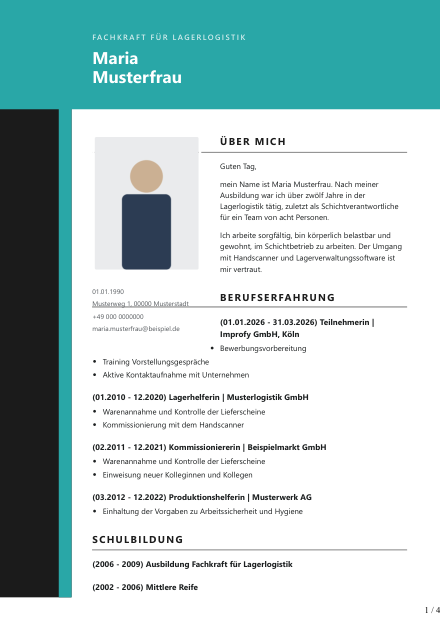
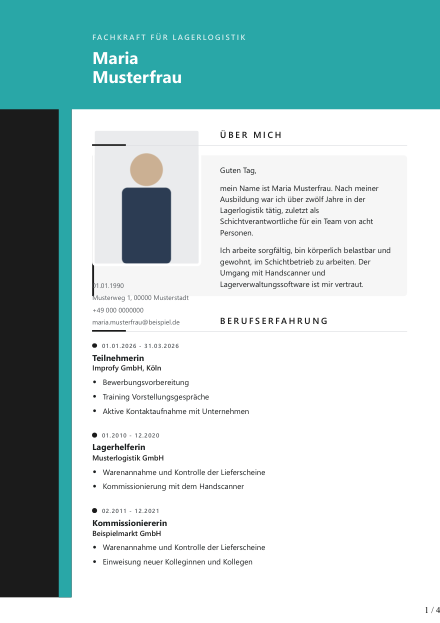
Designdurchgang am Lebenslauf: Satzbild, Weissraum, zwei Umbruchfehler
**Der Zipfel auf der Schrift.** Bei der Kopfform `band` lag die Spitze des Farbbands ab
Seite 2 auf dem ersten Wort ("SCHULBILDUNG" ohne S). Die Ursache war die Stelle, an der
der Abstand sass: eine Polsterung am Inhaltsblock wirkt nur einmal, an seinem Anfang -
also auf Seite 1. Der Tabellenkopf dagegen wird auf jeder Seite neu gesetzt, seine
Polsterung damit auch. Dorthin gehoert der Abstand.

**Die fast leere Schlussseite.** 13 von 23 Vorlagen erzeugten ein drittes Blatt, auf dem
nur der wiederholte Kopf und die Seitenzahl standen. Der Abstand hinter dem letzten
Kapitel hat nichts mehr zu trennen, schob den Satzspiegel aber ueber die Kante.

**Satzbild.** Die Vorlagen sahen verschieden aus, lasen sich aber alle gleich flach: eine
fette Zeile "(Zeitraum) Titel | Firma", darunter Stichpunkte, siebenmal untereinander.
Jetzt:
- Der Zeitraum steht ueber dem Titel, klein und ruhig. Er ist die Orientierung, nicht
  die Aussage.
- Titel und Firma sind verschieden gewichtet statt durch einen Strich getrennt. Der
  Strich war eine Kruecke der Tabellenvorlage.
- Eine farbige Marke am Beginn jedes Eintrags, gesetzt **am Text** statt am Kastenrand:
  am Kasten sprang sie, weil der erste Eintrag neben der Fotospalte steht und die
  folgenden am Rand - das haette ausgesehen wie ein Fehler, nicht wie Absicht.
- Ueberschriften: Haarlinie ueber die Breite, darauf ein kurzes kraeftiges Stueck in der
  Hausfarbe.
[…]

Changed region(s): [[0.2068, 0.2135, 0.9159, 0.9454], [0.2659, 0.244, 0.3841, 0.3355], [0.2364, 0.2135, 0.2659, 0.244]]

diff --git a/templates/cv_designs/cv_skin.html b/templates/cv_designs/cv_skin.html
@@ -26,6 +26,13 @@ table.seite { width: 100%; border-collapse: collapse; }
 table.seite > thead { display: table-header-group; }
 table.seite > tbody { display: table-row-group; }
 table.seite td { padding: 0; vertical-align: top; }
+/* Der Abstand unter dem Kopf gehoert **hierhin**, nicht an den Inhalt. Eine Polsterung
+   am Inhaltsblock wirkt nur einmal - an seinem Anfang, also auf Seite 1. Ab Seite 2
+   begann der Text direkt unter dem Farbband, und bei der Kopfform `band` lag die
+   Zipfelspitze auf dem ersten Wort ("SCHULBILDUNG" ohne S, gesehen am 18.09.2026).
+   Der Tabellenkopf dagegen wird von Chrome auf jeder Seite neu gesetzt - seine
+   Polsterung damit auch. Bei `band` muss sie groesser sein als der Zipfel hoch ist. */
+table.seite > thead td { padding-bottom: {{ '13mm' if skin.kopfform == 'band' else '9mm' }}; }
 
 /* ------------------------------------------------------------------ Kopfformen */
 .kopf { position: relative; }
@@ -37,9 +44,13 @@ table.seite td { padding: 0; vertical-align: top; }
 .kopf { background: var(--farbe); padding: 16mm 16mm 12mm; }
 .kopf .name { color: #fff; font-size: 25pt; }
 .kopf .rolle { color: #ffffffd0; margin-bottom: 2.5mm; }
-.zipfel { position: absolute; left: 18mm; bottom: -10mm; width: 0; height: 0;
-          border-left: 10mm solid var(--farbe); border-bottom: 10mm solid transparent; }
-.blatt { padding: 14mm 16mm 14mm; }
+.zipfel { position: absolute; left: 18mm; bottom: -9mm; width: 0; height: 0;
+          border-left: 9mm solid var(--farbe); border-bottom: 9mm solid transparent; }
+/* Der Zipfel ragt unter den Kopf hinaus. Auf Seite 1 war darunter Platz, auf Seite 2
+   begann der Text sofort - dort lag die Spitze auf dem Wort „SCHULBILDUNG" und
+   verdeckte den ersten Buchstaben. Der Abstand muss deshalb groesser sein als der
+   Zipfel hoch ist, und zwar auf **jeder** Seite. (Gesehen am 18.09.2026.) */
+.blatt { padding: 0 16mm 4mm; }
 
 {% elif skin.kopfform == 'links' %}
 /* Die farbige Randspalte läuft über die **ganze** Seite, nicht nur durch den Kopf.
@@ -54,7 +65,7 @@ table.seite td { padding: 0; vertical-align: top; }
 .kopf { background: var(--farbe2); padding: 15mm 16mm 11mm 44mm; }
 .kopf .name { color: #fff; font-size: 23pt; }
 .kopf .rolle { color: #ffffffcc; margin-bottom: 2.5mm; }
-.blatt { padding: 12mm 16mm 14mm 44mm; }
+.blatt { padding: 0 16mm 4mm 44mm; }
 
 {% elif skin.kopfform == 'ecke' %}
 .kopf { padding: 15mm 16mm 10mm; overflow: hidden; }
@@ -65,7 +76,7 @@ table.seite td { padding: 0; vertical-align: top; }
 .kopf .inhalt { position: relative; z-index: 2; padding-left: 26mm; }
 .kopf .name { color: var(--text); font-size: 25pt; }
 .kopf .rolle { color: var(--farbe); margin-bottom: 2.5mm; }
-.blatt { padding: 8mm 16mm 14mm; }
+.blatt { padding: 0 16mm 4mm; }
 
 {% elif skin.kopfform == 'flaeche' %}
 body { background: var(--farbe2); }
@@ -75,7 +86,7 @@ body { background: var(--farbe2); }
 .kopf .name b { font-weight: 700; }
 .kopf .strich { width: 26mm; height: .5mm; background: var(--farbe); margin: 4mm auto 3mm; }
 .kopf .rolle { color: var(--farbe); }
-.blatt { padding: 10mm 16mm 14mm; }
+.blatt { padding: 0 16mm 4mm; }
 
 {% elif skin.kopfform == 'rahmen' %}
 .kopf { padding: 14mm 16mm 9mm; text-align: center; }
@@ -83,7 +94,7 @@ body { background: var(--farbe2); }
                height: .5mm; background: var(--farbe); }
 .kopf .name { color: var(--text); font-size: 24pt; letter-spacing: .04em; }
 .kopf .rolle { color: var(--farbe); margin-top: 3mm; }
-.blatt { padding: 10mm 16mm 14mm; }
+.blatt { padding: 0 16mm 4mm; }
 .blatt::before { content: ""; position: fixed; left: 8mm; top: 8mm; right: 8mm; bottom: 8mm;
                  border: .4mm solid var(--farbe2); pointer-events: none; }
 
@@ -94,7 +105,7 @@ body { background: var(--farbe2); }
 .kopf .rolle { color: var(--farbe); margin-top: 3mm; }
 .kopf .marke { display: inline-block; height: 1.4mm; width: 18mm; background: var(--farbe);
                margin-bottom: 4mm; }
-.blatt { padding: 6mm 16mm 14mm; }
+.blatt { padding: 0 16mm 4mm; }
 {% endif %}
 
 /* ---------------------------------------------------- Foto, Kontakt, Inhalt */
@@ -107,19 +118,106 @@ body { background: var(--farbe2); }
            {% if skin.kopfform in ('flaeche', 'rahmen') %}text-align: center;{% endif %} }
 .kontakt div { overflow-wrap: anywhere; }
 
-h2 { color: var(--farbe); font-size: 13.5pt; font-weight: 700; letter-spacing: .13em;
-     text-transform: uppercase; }
-{% if skin.kopfform in ('band', 'links') %}
-h2 { padding-bottom: 1.5mm; border-bottom: .5mm solid var(--farbe); }
-{% elif skin.kopfform == 'flaeche' %}
-h2::after { content: ""; display: block; width: 14mm; height: .4mm;
-            background: var(--farbe); margin-top: 2mm; }
-{% endif %}
-h3 { color: var(--farbe); font-size: 11pt; font-weight: 700; letter-spacing: .1em;
-     text-transform: uppercase; margin-top: 6mm; }
-.eintrag .titel { font-weight: 700; font-size: 11pt; }
+/* ------------------------------------------------------------------ Satzbild
+
+   Die Vorlagen sahen zwar verschieden aus, lasen sich aber alle gleich flach: eine
+   fette Zeile "(Zeitraum) Titel | Firma", darunter Stichpunkte, und das siebenmal
+   untereinander. Ein Recruiter ueberfliegt so etwas nicht, er arbeitet es ab.
+
+   Drei Aenderungen, die daraus ein gesetztes Blatt machen:
+
+     Der Zeitraum steht **ueber** dem Titel, klein und ruhig. Er ist die Orientierung,
+     nicht die Aussage - also darf er nicht so laut sein wie die Stelle.
+
+     Titel und Firma sind verschieden gewichtet statt durch einen Strich getrennt.
+     Der Strich war eine Krücke der Tabellenvorlage.
+
+     Eine feine Linie mit einem farbigen Punkt fuehrt an den Eintraegen entlang. Das
+     gibt dem Auge eine Kante und macht aus einer Liste einen Verlauf. */
+
+h2 { color: var(--farbe); font-size: 12pt; font-weight: 600; letter-spacing: .2em;
+     text-transform: uppercase; position: relative; padding-bottom: 2.4mm; }
+/* Haarlinie ueber die Breite, darauf ein kurzes kraeftiges Stueck in der Hausfarbe -
+   der Unterschied zwischen "unterstrichen" und "gesetzt". */
+h2::before { content: ""; position: absolute; left: 0; right: 0; bottom: 0;
+             height: .25mm; background: var(--linie); }
+h2::after  { content: ""; position: absolute; left: 0; bottom: 0;
+             width: 16mm; height: .8mm; background: var(--farbe); }
+h3 { color: var(--text); font-size: 9.5pt; font-weight: 700; letter-spacing: .16em;
+     text-transform: uppercase; margin-top: 7mm; opacity: .78; }
+
+/* `flow-root` ist hier der entscheidende Punkt: Ohne ihn laeuft der Kasten eines
+   Eintrags **unter** der Fotospalte durch und nur der Text weicht aus. Die Linie und
+   der Punkt sitzen am Kastenrand - und landeten damit mitten auf der Telefonnummer.
+   Mit `flow-root` stellt sich jeder Eintrag neben die Fotospalte, solange sie reicht,
+   und nimmt darunter die volle Breite. Kein Ueberlappen, kein verschenkter Rand. */
+/* `flow-root` ist hier der entscheidende Punkt: Ohne ihn laeuft der Kasten eines
+   Eintrags **unter** der Fotospalte durch und nur der Text weicht aus - Linie und Punkt
+   sassen dann mitten auf der Telefonnummer. Mit `flow-root` stellt sich jeder Eintrag
+   neben die Fotospalte, solange sie reicht, und nimmt darunter die volle Breite. */
+.eintrag { display: flow-root; }
+/* Die Marke sitzt **am Text**, nicht am Kastenrand. Am Kasten sprang sie: der erste
+   Eintrag steht neben dem Foto, die folgenden am linken Rand - eine durchgehende Linie
+   haette dort einen Absatz gemacht und ausgesehen wie ein Fehler, nicht wie Absicht. */
+.eintrag .wann { font-size: 8pt; font-weight: 600; letter-spacing: .1em;
+                 color: var(--grau); text-transform: uppercase;
+                 font-variant-numeric: tabular-nums; margin-bottom: 1mm;
+                 display: flex; align-items: center; gap: 2.4mm; }
+.eintrag .wann::before { content: ""; flex: none; width: 2.2mm; height: 2.2mm;
+                         border-radius: 50%; background: var(--farbe); }
+/* Ohne Zeitraum fehlt die Marke - dann traegt sie der Titel, damit kein Eintrag
+   ohne Anfang dasteht. */
+.eintrag .titel:first-child { border-left: .8mm solid var(--farbe); padding-left: 3mm; }
+.eintrag .titel { font-weight: 700; font-size: 11.5pt; line-height: 1.25; }
+.eintrag .firma { display: block; font-size: 10pt; font-weight: 600;
+                  color: var(--farbe); margin-top: .4mm; }
+.eintrag .dazu  { font-size: 9.5pt; color: var(--grau); margin-top: .4mm; }
+
+/* „Über mich" ist das Erste, was gelesen wird - es bekommt eine eigene Flaeche statt
+   im Fliesstext unterzugehen. Die Toenung liegt auf dem Untergrund, damit sie auch auf
+   den eingefaerbten Vorlagen passt. */
+.ueber { background: rgba(0, 0, 0, .035); border-left: 1.2mm solid var(--farbe);
+         padding: 4.5mm 6mm 3mm; border-radius: 0 1.5mm 1.5mm 0; }
+.ueber p:last-child { margin-bottom: 0; }
+
 .paar .was { font-size: 10pt; }
-.sprachzeile .sp { text-transform: uppercase; color: var(--farbe); }
+/* Bewertungen stehen rechtsbuendig untereinander - eine ruhige Kante statt einer
+   Treppe, die der Laenge der Woerter folgt. */
+.paare { display: grid; grid-template-columns: 1fr auto; gap: 1.6mm 5mm;
+         align-items: center; }
+.paar.zeile { display: contents; }
+.sprachzeile { display: flex; align-items: baseline; gap: 3mm; margin-bottom: 1.4mm; }
+.sprachzeile .sp { text-transform: uppercase; color: var(--farbe); font-weight: 600;
+                   letter-spacing: .08em; font-size: 9.5pt; }
+/* Feine Linie zwischen Sprache und Niveau: fuehrt das Auge ueber die Luecke, ohne eine
+   weitere Farbe einzufuehren. **Nur**, wenn rechts auch etwas steht - sonst zeigt sie
+   ins Leere und sieht aus wie ein Fehler (am 18.09.2026 genau so im PDF gesehen). */
+.sprachzeile.mit-grad::before { content: ""; flex: 1; order: 1; height: .25mm;
+                                background: var(--linie); }
+.sprachzeile .grad { order: 2; }
+/* `display: contents` nimmt der Zeile ihren Kasten - der Umbruchschutz aus dem Rahmen
+   greift dann nicht mehr. Deshalb hier an den Kindern. */
+.paare > * { break-inside: avoid; }
+
+/* Mehr Luft zwischen den Kapiteln. Der enge Satz war der zweite Grund, warum das Blatt
+   gedraengt wirkte: sieben Stationen und vier Kapitel ohne Atempause dazwischen. */
+.zweispaltig { display: grid; grid-template-columns: 1fr 1fr; gap: 0 10mm;
+               break-inside: avoid; }
+.zweispaltig .spalte > h3:first-child { margin-top: 0; }
+.spalte { break-inside: avoid; }
+
+.kapitel { margin-bottom: 8.5mm; }
+/* Der Abstand **hinter** dem letzten Kapitel hat nichts mehr zu trennen - er schob den
+   Satzspiegel aber ueber die Seitenkante und erzwang eine dritte Seite, auf der nur
+   noch der wiederholte Kopf und die Seitenzahl standen. Eine leere Seite in einem
+   Lebenslauf sieht nach Unfall aus. (18.09.2026) */
+.kapitel:last-child { margin-bottom: 0; }
+.blatt > .reihe > .rechts > .kapitel:last-child { margin-bottom: 0; }
+.kapitel > h2 { margin-bottom: 4.5mm; }
+h3 + .paare, h3 + .eintrag { margin-top: 3mm; }
+.eintrag { margin-bottom: 5.5mm; }
+ul { margin-top: 2mm; }
+li { margin-bottom: 1.4mm; }
 
 /* ------------------------------------------------------------- Bewertungen */
 .sterne { color: var(--farbe); font-size: 12pt; }
@@ -184,7 +282,9 @@ h3 { color: var(--farbe); font-size: 11pt; font-weight: 700; letter-spacing: .1e
     {% if d.ueber_mich %}
     <section class="kapitel">
       <h2>Über mich</h2>
+      <div class="ueber">
       {% for absatz in d.ueber_mich.split('\n') %}{% if absatz.strip() %}<p>{{ absatz.strip() }}</p>{% endif %}{% endfor %}
+      </div>
     </section>
     {% endif %}
 
@@ -193,9 +293,12 @@ h3 { color: var(--farbe); font-size: 11pt; font-weight: 700; letter-spacing: .1e
       <h2>Berufserfahrung</h2>
       {% for b in beruf %}
       <div class="eintrag">
-        {# Der Trennstrich gehoert zwischen Titel und Firma. Steht nur eines von beiden da,
-           haengt er sonst im Nichts: "(seit 03.2026) | arbeitsuchend". #}
-        <div class="titel">({{ b.zeitraum }}){% if b.jobtitel %} {{ b.jobtitel }}{% endif %}{% if b.firma %}{{ " |" if b.jobtitel }} {{ b.firma }}{% endif %}</div>
+        {# Zeitraum oben und leise, darunter die Stelle. Steht nur eines von Titel und
+           Firma da, rueckt es schlicht in die Titelzeile - kein leeres Feld, kein
+           Trennstrich, der im Nichts haengt. #}
+        {% if b.zeitraum %}<div class="wann">{{ b.zeitraum }}</div>{% endif %}
+        <div class="titel">{{ b.jobtitel or b.firma }}
+          {%- if b.jobtitel and b.firma %}<span class="firma">{{ b.firma }}</span>{% endif %}</div>
         {% if b.taetigkeiten %}<ul>{% for t in b.taetigkeiten %}<li>{{ t }}</li>{% endfor %}</ul>{% endif %}
       </div>
       {% endfor %}
@@ -207,8 +310,10 @@ h3 { color: var(--farbe); font-size: 11pt; font-weight: 700; letter-spacing: .1e
       <h2>Schulbildung</h2>
       {% for b in d.bildung %}
       <div class="eintrag">
-        <div class="titel">({{ b.zeitraum }}) {{ b.abschluss }}</div>
-        {% if b.institution %}<div>{{ b.institution }}{% if b.note %} · Note {{ b.note }}{% endif %}</div>{% endif %}
+        {% if b.zeitraum %}<div class="wann">{{ b.zeitraum }}</div>{% endif %}
+        <div class="titel">{{ b.abschluss }}
+          {%- if b.institution %}<span class="firma">{{ b.institution }}</span>{% endif %}</div>
+        {% if b.note %}<div class="dazu">Note {{ b.note }}</div>{% endif %}
       </div>
       {% endfor %}
     </section>
@@ -219,23 +324,34 @@ h3 { color: var(--farbe); font-size: 11pt; font-weight: 700; letter-spacing: .1e
     <section class="kapitel">
       <h2>Persönliche Qualifikation</h2>
 
-      {% if d.soft_skills %}
-      <h3>Soft Skills</h3>
-      <div class="paare">
-        {% for s in d.soft_skills %}
-        <div class="paar zeile"><div class="was">{{ s.eigenschaft }}</div>{{ bewertung(s.sterne, 5) }}</div>
-        {% endfor %}
-      </div>
-      {% endif %}
+      {# Beides sind kurze Listen mit einer Bewertung rechts. Untereinander fuellten sie
+         eine halbe Seite und schoben die Sprachen auf ein fast leeres Blatt. Nebeneinander
+         passen sie in denselben Raum - und der Block wirkt gesetzt statt gestapelt.
+         Ist nur eine der beiden Listen da, bleibt sie ueber die volle Breite. #}
+      {% set zwei = d.soft_skills and d.edv_kenntnisse %}
+      <div class="{{ 'zweispaltig' if zwei else '' }}">
+        {% if d.soft_skills %}
+        <div class="spalte">
+          <h3>Soft Skills</h3>
+          <div class="paare">
+            {% for s in d.soft_skills %}
+            <div class="paar zeile"><div class="was">{{ s.eigenschaft }}</div>{{ bewertung(s.sterne, 5) }}</div>
+            {% endfor %}
+          </div>
+        </div>
+        {% endif %}
 
-      {% if d.edv_kenntnisse %}
-      <h3>EDV-Kenntnisse</h3>
-      <div class="paare">
-        {% for e in d.edv_kenntnisse %}
-        <div class="paar zeile"><div class="was">{{ e.programm }}</div>{{ bewertung(e.sterne, 4) }}</div>
-        {% endfor %}
+        {% if d.edv_kenntnisse %}
+        <div class="spalte">
+          <h3>EDV-Kenntnisse</h3>
+          <div class="paare">
+            {% for e in d.edv_kenntnisse %}
+            <div class="paar zeile"><div class="was">{{ e.programm }}</div>{{ bewertung(e.sterne, 4) }}</div>
+            {% endfor %}
+          </div>
+        </div>
+        {% endif %}
       </div>
-      {% endif %}
 
       {% if d.zusatzqualifikationen or fs.vorhanden %}
       <h3>Zusatzqualifikationen</h3>
@@ -248,7 +364,7 @@ h3 { color: var(--farbe); font-size: 11pt; font-weight: 700; letter-spacing: .1e
       {% if d.sprachen %}
       <h3>Sprachkenntnisse</h3>
       {% for s in d.sprachen %}
-      <div class="sprachzeile"><span class="sp">{{ s.sprache }}</span>{% if s.niveau %}<span class="grad">{{ s.niveau }}</span>{% endif %}</div>
+      <div class="sprachzeile{{ ' mit-grad' if s.niveau }}"><span class="sp">{{ s.sprache }}</span>{% if s.niveau %}<span class="grad">{{ s.niveau }}</span>{% endif %}</div>
       {% endfor %}
       {% endif %}
 

diff --git a/cv_probe.py b/cv_probe.py
@@ -136,10 +136,39 @@ def _pdf_text(rohdaten):
         return None, ""
 
 
+# Eine Schlussseite mit weniger als so vielen Zeichen traegt nichts mehr - darauf
+# stehen nur der wiederholte Kopf und die Seitenzahl. In einem Lebenslauf sieht das
+# nach Unfall aus, und der Arbeitgeber druckt ein leeres Blatt mit.
+MIN_LETZTE_SEITE = 300
+
+
+def _musterfoto():
+    """Eine gezeichnete Silhouette - nur fuer die Probe, sie wird nirgends gespeichert.
+
+    Ohne Foto faellt der Umbruch anders als im Echtbetrieb: die Fotospalte ist das
+    hoechste Einzelstueck auf Seite 1. Wer ohne sie prueft, prueft den falschen Fall."""
+    import io
+    from PIL import Image, ImageDraw
+    b = Image.new("RGB", (900, 1150), (233, 235, 237))
+    z = ImageDraw.Draw(b)
+    z.ellipse((310, 200, 590, 480), fill=(203, 176, 148))
+    z.rounded_rectangle((240, 495, 660, 1150), 46, fill=(44, 60, 82))
+    puffer = io.BytesIO()
+    b.save(puffer, "JPEG", quality=88)
+    return cv_pdf.foto_uri(puffer.getvalue(), "image/jpeg")
+
+
+FOTO = None
+
+
 def pruefe(schluessel, fall_name, daten, speichern=True):
     """Eine Vorlage mit einem Fall bauen und nachsehen, was herauskam."""
+    global FOTO
+    if FOTO is None:
+        FOTO = _musterfoto()
     with A.app.test_request_context():
-        pdf = cv_pdf.pdf_aus_html(cv_pdf.html_bauen(render_template, daten, schluessel))
+        pdf = cv_pdf.pdf_aus_html(
+            cv_pdf.html_bauen(render_template, daten, schluessel, FOTO))
     seiten, text = _pdf_text(pdf)
     # Zwei Dinge sind gewollt und dürfen nicht als Verlust gelten:
     #   Versalien – die Vorlagen setzen Überschriften groß (ZUVERLÄSSIGKEIT)
@@ -167,6 +196,12 @@ def pruefe(schluessel, fall_name, daten, speichern=True):
         os.makedirs(AUSGABE, exist_ok=True)
         with open(os.path.join(AUSGABE, f"{schluessel}_{fall_name}.pdf"), "wb") as f:
             f.write(pdf)
+    if seiten > 1:
+        import pymupdf
+        with pymupdf.open(stream=pdf, filetype="pdf") as doc:
+            letzte = len(" ".join(doc[-1].get_text("text").split()))
+        if letzte < MIN_LETZTE_SEITE:
+            fehlt.append(f"Schlussseite fast leer ({letzte} Zeichen)")
     return {"vorlage": schluessel, "fall": fall_name, "seiten": seiten,
             "kb": len(pdf) // 1024, "zeichen": len(flach), "fehlt": fehlt}
 
@@ -196,7 +231,7 @@ def main(nur=None):
     if schlecht:
         print(f"{schlecht} Durchgänge mit Verlust oder Fehler – das muss auf null.")
     else:
-        print("Kein Inhalt ist verloren gegangen.")
+        print("Kein Inhalt verloren, keine fast leere Schlussseite.")
     return 0 if not schlecht else 1
 
 
